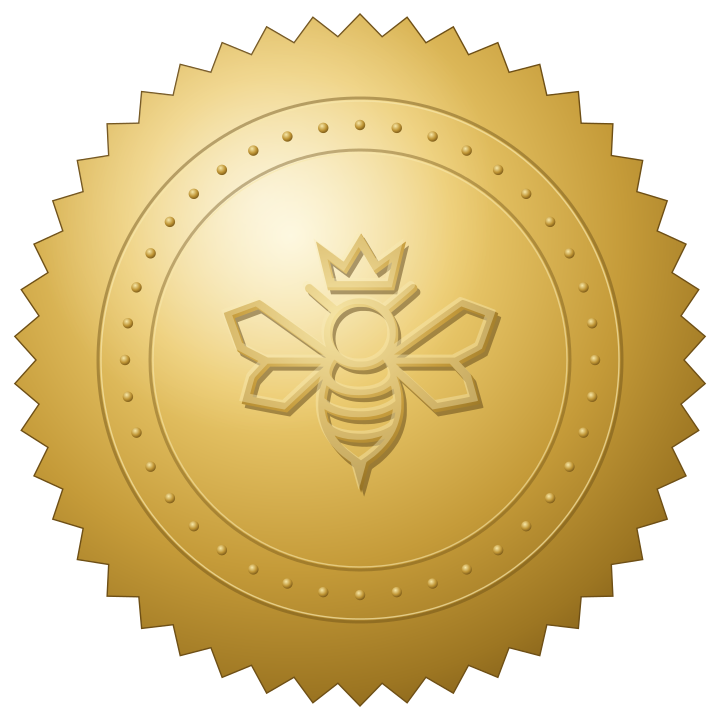
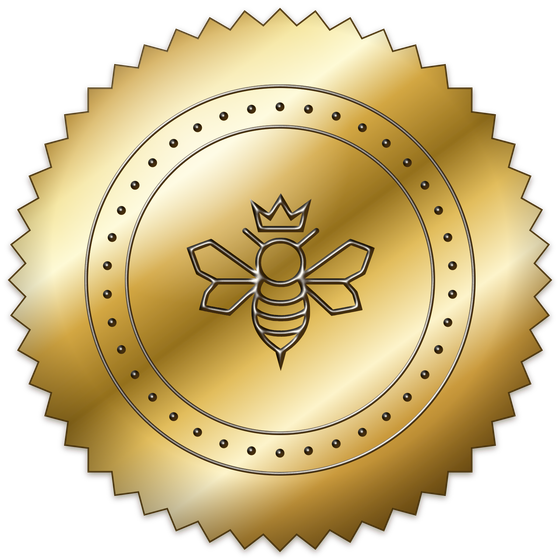
feat(learn): realistic embossed gold-foil seal (chromium-rendered feSpecularLighting)
Per feedback (the seal was 'tacky and unrealistic') + a research round on real foil
seals: realism needs a BANDED metallic gradient (alternating light/dark bands read
as a curved reflective surface) AND true relief via the feSpecularLighting /
feDiffuseLighting emboss filter (alpha as a bump map). resvg/sharp can't render the
lighting filters, so gen-seal.ts now rasterizes the SVG in headless chromium
(Playwright, using the already-downloaded build) → the bee/rings/beads become raised
metal that catches light. Downscaled + compressed via sharp; transparent bg.

diff --git a/scripts/gen-seal.ts b/scripts/gen-seal.ts
@@ -1,27 +1,26 @@
 // Generates the embossed gold-foil seal as a static PNG asset
-// (src/lib/pdf/seal.png), embedded by both certificate renderers. A real embossed
-// seal needs metallic gradients + raised relief, which satori/react-pdf can't do —
-// so we author a full SVG (scalloped edge, gold-foil radial gradient, a beaded
-// bezel, and the OTD bee in relief via layered shadow/highlight copies) and
-// rasterize it once with sharp. Re-run to regenerate: npx tsx scripts/gen-seal.ts
+// (src/lib/pdf/seal.png), embedded by both certificate renderers. Realistic foil
+// needs (a) a BANDED metallic gradient — alternating light/dark bands read as a
+// curved reflective surface — and (b) true RELIEF that catches light, which is the
+// SVG feSpecularLighting/feDiffuseLighting emboss filter (alpha as a bump map).
+// resvg/sharp can't render those filters, so we rasterize the SVG in headless
+// chromium (Playwright) instead. Re-run: npx tsx scripts/gen-seal.ts
+import { chromium } from "playwright";
 import sharp from "sharp";
 import { writeFileSync } from "node:fs";
 import path from "node:path";
 import { BRANDMARK_PATH } from "@/lib/pdf/certificate-content";
 
-const S = 720; // source resolution
+const S = 760;
 const C = S / 2;
 
-// Scalloped (serrated) edge — alternating outer/inner radius around the circle.
 function scallop(teeth: number, rOut: number, rIn: number): string {
   const pts: string[] = [];
   const steps = teeth * 2;
   for (let k = 0; k <= steps; k++) {
     const ang = (k * Math.PI) / teeth - Math.PI / 2;
     const r = k % 2 === 0 ? rOut : rIn;
-    const x = C + r * Math.cos(ang);
-    const y = C + r * Math.sin(ang);
-    pts.push(`${k === 0 ? "M" : "L"} ${x.toFixed(2)} ${y.toFixed(2)}`);
+    pts.push(`${k === 0 ? "M" : "L"} ${(C + r * Math.cos(ang)).toFixed(2)} ${(C + r * Math.sin(ang)).toFixed(2)}`);
   }
   return pts.join(" ") + " Z";
 }
@@ -30,69 +29,93 @@ function beads(n: number, r: number, br: number): string {
   let out = "";
   for (let i = 0; i < n; i++) {
     const ang = (i * 2 * Math.PI) / n - Math.PI / 2;
-    const x = C + r * Math.cos(ang);
-    const y = C + r * Math.sin(ang);
-    out += `<circle cx="${x.toFixed(2)}" cy="${y.toFixed(2)}" r="${br}" fill="url(#bead)"/>`;
+    out += `<circle cx="${(C + r * Math.cos(ang)).toFixed(2)}" cy="${(C + r * Math.sin(ang)).toFixed(2)}" r="${br}"/>`;
   }
   return out;
 }
 
-// Bee transform: map its viewBox (-400 400 418 400) to a `size`-wide mark centred
-// at (C+dx, C+dy).
-function bee(size: number, dx: number, dy: number, fill: string, opacity = 1): string {
+function beeGroup(size: number): string {
   const s = size / 418;
-  return `<g transform="translate(${C + dx} ${C + dy}) scale(${s}) translate(191 -600)" opacity="${opacity}"><path d="${BRANDMARK_PATH}" fill="${fill}"/></g>`;
+  return `<g transform="translate(${C} ${C}) scale(${s}) translate(191 -600)"><path d="${BRANDMARK_PATH}"/></g>`;
 }
 
-const beeSize = 286;
 const svg = `
 <svg xmlns="http://www.w3.org/2000/svg" width="${S}" height="${S}" viewBox="0 0 ${S} ${S}">
   <defs>
-    <radialGradient id="foil" cx="40%" cy="32%" r="78%">
-      <stop offset="0%" stop-color="#fcf3cb"/>
-      <stop offset="30%" stop-color="#eccb6e"/>
-      <stop offset="62%" stop-color="#c59b39"/>
-      <stop offset="85%" stop-color="#9d7622"/>
-      <stop offset="100%" stop-color="#785615"/>
+    <linearGradient id="metal" x1="14%" y1="2%" x2="86%" y2="100%">
+      <stop offset="0%"  stop-color="#6f4b13"/><stop offset="11%" stop-color="#ca9c3a"/>
+      <stop offset="20%" stop-color="#f6e7a2"/><stop offset="28%" stop-color="#fefad6"/>
+      <stop offset="37%" stop-color="#d3a743"/><stop offset="48%" stop-color="#94701d"/>
+      <stop offset="57%" stop-color="#e2bd5c"/><stop offset="68%" stop-color="#fdf4cb"/>
+      <stop offset="78%" stop-color="#ca9a3c"/><stop offset="90%" stop-color="#8a6219"/>
+      <stop offset="100%" stop-color="#5e3f10"/>
+    </linearGradient>
+    <radialGradient id="dome" cx="50%" cy="45%" r="60%">
+      <stop offset="0%" stop-color="#000" stop-opacity="0"/>
+      <stop offset="70%" stop-color="#1f1404" stop-opacity="0"/>
+      <stop offset="100%" stop-color="#241804" stop-opacity="0.5"/>
     </radialGradient>
-    <radialGradient id="sheen" cx="36%" cy="27%" r="52%">
-      <stop offset="0%" stop-color="#ffffff" stop-opacity="0.5"/>
-      <stop offset="65%" stop-color="#ffffff" stop-opacity="0"/>
+    <radialGradient id="spec" cx="34%" cy="25%" r="42%">
+      <stop offset="0%" stop-color="#fffdf4" stop-opacity="0.6"/>
+      <stop offset="70%" stop-color="#fffdf4" stop-opacity="0"/>
     </radialGradient>
-    <radialGradient id="beeGrad" cx="42%" cy="33%" r="72%">
-      <stop offset="0%" stop-color="#f4e09a"/>
-      <stop offset="55%" stop-color="#c69c3c"/>
-      <stop offset="100%" stop-color="#8c6a1f"/>
-    </radialGradient>
-    <radialGradient id="bead" cx="38%" cy="32%" r="70%">
-      <stop offset="0%" stop-color="#f6e7a8"/>
-      <stop offset="60%" stop-color="#c09636"/>
-      <stop offset="100%" stop-color="#7d5b18"/>
-    </radialGradient>
+    <!-- Emboss: blur the alpha into a bump map, light it with a top-left distant
+         light (sharp specular highlight) and an opposite dark diffuse (the shaded
+         side). Composited over the gold relief → raised metal. -->
+    <filter id="emboss" x="-25%" y="-25%" width="150%" height="150%">
+      <feGaussianBlur in="SourceAlpha" stdDeviation="3.4" result="blur"/>
+      <feSpecularLighting in="blur" surfaceScale="6.5" specularConstant="1.15" specularExponent="17" lighting-color="#fffaf0" result="hl">
+        <feDistantLight azimuth="228" elevation="50"/>
+      </feSpecularLighting>
+      <feComposite in="hl" in2="SourceAlpha" operator="in" result="hlc"/>
+      <feDiffuseLighting in="blur" surfaceScale="6.5" diffuseConstant="0.9" lighting-color="#4a3210" result="sh">
+        <feDistantLight azimuth="48" elevation="44"/>
+      </feDiffuseLighting>
+      <feComposite in="sh" in2="SourceAlpha" operator="in" result="shc"/>
+      <feMerge>
+        <feMergeNode in="SourceGraphic"/>
+        <feMergeNode in="shc"/>
+        <feMergeNode in="hlc"/>
+      </feMerge>
+    </filter>
+    <filter id="drop" x="-30%" y="-30%" width="160%" height="160%">
+      <feDropShadow dx="0" dy="3" stdDeviation="4" flood-color="#2a1c06" flood-opacity="0.45"/>
+    </filter>
   </defs>
 
-  <!-- scalloped disc -->
-  <path d="${scallop(46, C - 14, C - 36)}" fill="url(#foil)" stroke="#6e4f15" stroke-width="1.4"/>
-  <path d="${scallop(46, C - 14, C - 36)}" fill="url(#sheen)"/>
+  <!-- field: banded metal + domed edges + specular highlight -->
+  <g filter="url(#drop)">
+    <path d="${scallop(48, C - 12, C - 34)}" fill="url(#metal)" stroke="#4f370d" stroke-width="2"/>
+  </g>
+  <path d="${scallop(48, C - 12, C - 34)}" fill="url(#dome)"/>
+  <path d="${scallop(48, C - 12, C - 34)}" fill="url(#spec)"/>
 
-  <!-- embossed border rings (groove shadow + raised highlight) -->
-  <circle cx="${C}" cy="${C}" r="262" fill="none" stroke="#6b4d14" stroke-width="3" opacity="0.45"/>
-  <circle cx="${C}" cy="${C}" r="259" fill="none" stroke="#f7e7ab" stroke-width="1.4" opacity="0.7"/>
-  <circle cx="${C}" cy="${C}" r="210" fill="none" stroke="#6b4d14" stroke-width="3" opacity="0.4"/>
-  <circle cx="${C}" cy="${C}" r="207" fill="none" stroke="#f7e7ab" stroke-width="1.4" opacity="0.6"/>
-
-  <!-- beaded bezel -->
-  ${beads(40, 235, 5.2)}
-
-  <!-- bee in relief: shadow, main (gradient), highlight -->
-  ${bee(beeSize, 3, 4, "#5c4213", 0.5)}
-  ${bee(beeSize, 0, 0, "url(#beeGrad)")}
-  ${bee(beeSize, -2.5, -3, "#f8ebb6", 0.4)}
+  <!-- relief (rings, beads, bee) struck into the same gold, lit by the emboss -->
+  <g fill="#c49633" stroke="none" filter="url(#emboss)">
+    <circle cx="${C}" cy="${C}" r="263" fill="none" stroke="#c49633" stroke-width="5"/>
+    <circle cx="${C}" cy="${C}" r="208" fill="none" stroke="#c49633" stroke-width="5"/>
+    ${beads(38, 235, 6)}
+    ${beeGroup(266)}
+  </g>
 </svg>`;
 
 async function main() {
+  const html = `<!doctype html><html><head><meta charset="utf-8"><style>html,body{margin:0;padding:0;background:transparent}</style></head><body>${svg}</body></html>`;
+  // Use the already-downloaded chromium build (avoids a fresh browser download
+  // when the installed revision differs from playwright's expected one).
+  const browser = await chromium.launch({
+    executablePath: `${process.env.LOCALAPPDATA}\\ms-playwright\\chromium-1208\\chrome-win64\\chrome.exe`,
+  });
+  const page = await browser.newPage({ viewport: { width: S, height: S }, deviceScaleFactor: 2 });
+  await page.setContent(html, { waitUntil: "networkidle" });
+  // Page-level transparent screenshot of the svg's box (element screenshots don't
+  // honour omitBackground with lighting filters → black fill).
+  const box = await (await page.$("svg"))!.boundingBox();
+  const shot = await page.screenshot({ omitBackground: true, clip: box! });
+  await browser.close();
+  // Downscale + compress to a sensible asset size (displayed ~150px).
+  const buf = await sharp(shot).resize(560).png({ compressionLevel: 9 }).toBuffer();
   const out = path.join(process.cwd(), "src/lib/pdf/seal.png");
-  const buf = await sharp(Buffer.from(svg)).png().toBuffer();
   writeFileSync(out, buf);
   console.log("wrote", out, buf.length, "bytes");
 }
